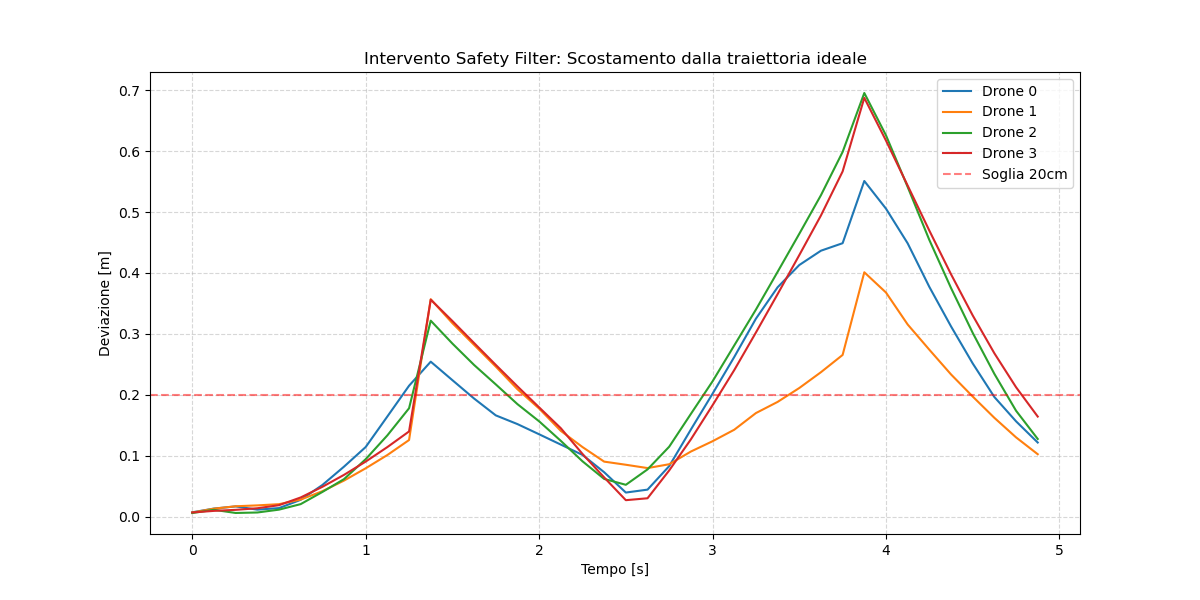
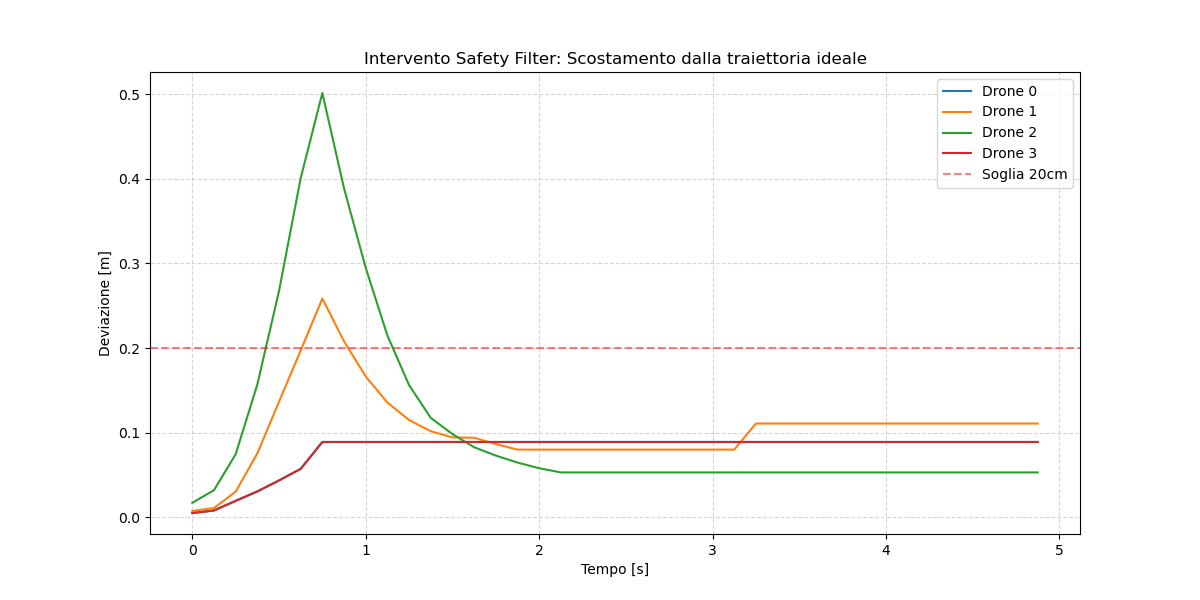
feat: new prompt for added primitives

diff --git a/swarm_gpt/core/choreographer.py b/swarm_gpt/core/choreographer.py
@@ -61,7 +61,7 @@ class Choreographer:
         self.starting_pos = {}
         self.num_drones = 0
         self.messages = []
-        self._custom_primitives: list[dict] = []
+        self._generated_yaml = Path(__file__).resolve().parents[1] / "data/prompt_generated_primitives.yaml"
         # self.agent2 = Agent2(
         #     call_llm_fn=self._call_openai,
         #     prompts_path=Path(__file__).resolve().parents[1] / "data/prompt_agent2.yaml"
@@ -142,8 +142,9 @@ class Choreographer:
         msgs = []
         user_prompt = self._format_initial_user_prompt(user_command)
         msgs.append({"role": "system", "content": self.prompts["system_initial"]})
-        if self._custom_primitives:
-            msgs.append({"role": "system", "content": self._build_generated_primitives_system_msg()})
+        generated = self._load_generated_primitives_content()
+        if generated:
+            msgs.append({"role": "system", "content": generated})
         msgs.append({"role": "user", "content": user_prompt})
         msgs.append({"role": "system", "content": self.prompts["example"]})
         msgs.append({"role": "system", "content": self.prompts["output_format"]})
@@ -173,44 +174,14 @@ class Choreographer:
         self.messages.append({"role": "assistant", "content": response})
         return response
 
-    def add_generated_primitive(
-        self, name: str, description: str, definition: str, body: str, n_args: int
-    ) -> None:
-        """Register a newly generated primitive so the Choreographer knows to use it."""
-        self._custom_primitives.append({
-            "name": name,
-            "description": description,
-            "definition": definition,
-            "body": body,
-            "n_args": n_args,
-        })
-
-    def _choreographer_sig(self, p: dict) -> str:
-        """Return the choreographer-level call signature for a generated primitive."""
-        match = re.search(r"^\s*([\w]+(?:\s*,\s*[\w]+)*)\s*=\s*params", p["body"], re.MULTILINE)
-        if match:
-            names = [n.strip() for n in match.group(1).split(",")]
-            args = names[: p["n_args"]]
-        else:
-            args = [f"p{i + 1}" for i in range(p["n_args"])]
-        return f"{p['name']}({', '.join(args)})"
-
-    def _build_generated_primitives_system_msg(self) -> str:
-        lines = [
-            "## GENERATED PRIMITIVES — TREAT AS BUILT-IN",
-            "",
-            "The following primitives were generated in this session.",
-            "They are fully valid. You MUST use them when the command matches,",
-            "exactly like any primitive in ## AVAILABLE PRIMITIVES.",
-            "Do NOT compute manual waypoints when a generated primitive applies.",
-            "",
-        ]
-        for p in self._custom_primitives:
-            sig = self._choreographer_sig(p)
-            lines.append(f"- {sig}")
-            lines.append(f"  {p['description']}")
-            lines.append("")
-        return "\n".join(lines)
+    def _load_generated_primitives_content(self) -> str:
+        """Return the pre-formatted LLM content from prompt_generated_primitives.yaml, or ''."""
+        try:
+            with open(self._generated_yaml, "r") as f:
+                data = yaml.safe_load(f) or {}
+        except FileNotFoundError:
+            return ""
+        return (data.get("content") or "").strip()
 
     def reset_history(self):
         """Reset the LLM history to ensure a clean slate."""
@@ -343,7 +314,8 @@ class Choreographer:
 
         # CASO 2: Tutto Primitives (Funzioni)
         elif none_raw:
-            logger.info("Executing Case 2: Pure Motion Primitives")
+            logger.info("Executing Case 2: Pure Motion Primitives: ")
+            print(choreo_steps)
             waypoints = self._choreo2waypoints(choreo_steps, timestamps)
 
         # CASO 3: Ibrido (Il "Mix")

diff --git a/swarm_gpt/core/agent_b/primitive_writer.py b/swarm_gpt/core/agent_b/primitive_writer.py
@@ -1,9 +1,86 @@
 import json
+import re
 from pathlib import Path
+
+import yaml
 
 from swarm_gpt.core._llm_client import client
 from swarm_gpt.core.agent_b.function_node import FunctionNode
 from swarm_gpt.core.agent_b.prompt.generate_utterances_prompt import UTTERANCES_PROMPT
+
+_GENERATED_YAML_PATH = Path(__file__).resolve().parents[2] / "data/prompt_generated_primitives.yaml"
+
+
+class _LiteralStr(str):
+    pass
+
+
+def _literal_representer(dumper, data):
+    return dumper.represent_scalar("tag:yaml.org,2002:str", data, style="|")
+
+
+class _LiteralDumper(yaml.Dumper):
+    pass
+
+
+_LiteralDumper.add_representer(_LiteralStr, _literal_representer)
+
+def write_descriptions_to_yaml(
+    nodes: list[FunctionNode], yaml_path: Path = _GENERATED_YAML_PATH
+) -> None:
+    """Append newly generated primitive descriptions to prompt_generated_primitives.yaml.
+
+    Reads the current `content`, appends one formatted block per node
+    (in prompts_no_music.yaml style), then writes the file back.
+    """
+    with open(yaml_path, "r") as f:
+        data = yaml.safe_load(f) or {}
+
+    content: str = data.get("content") or ""
+
+    for node in nodes:
+        if f"  {node.name}(" in content:
+            continue  # already present, skip to avoid conflicting duplicates
+        content = content.rstrip("\n") + "\n\n" + _format_entry(node)
+
+    data["content"] = _LiteralStr(content)
+    with open(yaml_path, "w") as f:
+        yaml.dump(data, f, Dumper=_LiteralDumper, allow_unicode=True, sort_keys=False)
+
+
+def _format_entry(node: FunctionNode) -> str:
+    """Format one primitive in prompts_no_music.yaml style."""
+    defn = node.definition or ""
+    param_names = _extract_param_names(defn, node.n_args)
+    sig = f"{node.name}({', '.join(param_names)})"
+
+    lines = [f"  {sig}"]
+    lines.append(f"    - {node.description}")
+    for pname, pdesc in _extract_param_descs(defn, set(param_names)):
+        lines.append(f"    - {{{pname}}}: {pdesc}")
+    return "\n".join(lines)
+
+
+def _extract_param_names(defn: str, n_args: int) -> list[str]:
+    """Extract param names from 'params: tuple[...] — (name1, name2, ...)' in docstring."""
+    m = re.search(r"params:\s*tuple\[.*?\]\s*[—\-]+\s*\(([\w,\s]+)\)", defn)
+    if m:
+        return [n.strip() for n in m.group(1).split(",")][:n_args]
+    return [f"p{i + 1}" for i in range(n_args)]
+
+
+def _extract_param_descs(defn: str, param_names: set) -> list[tuple[str, str]]:
+    """Extract per-param descriptions from the docstring params section."""
+    m = re.search(r"params:\s*tuple.*?\n(.*?)(?=\s*swarm_pos:)", defn, re.DOTALL)
+    if not m:
+        return []
+    results = []
+    for line in m.group(1).splitlines():
+        pm = re.match(r"\s+(\w+)\s*:\s*\S+\s*[—\-]+\s*(.+)", line)
+        if pm and pm.group(1) in param_names:
+            results.append((pm.group(1), pm.group(2).strip()))
+    return results
+
 
 # insert in dict and append in motion_primitives.py
 def write_to_file(nodes: list[FunctionNode], file_path: Path) -> None:

diff --git a/swarm_gpt/core/backend.py b/swarm_gpt/core/backend.py
@@ -22,7 +22,7 @@ import swarm_gpt.core.motion_primitives as _mp_module
 
 from swarm_gpt.core import Choreographer, DroneController
 from swarm_gpt.core.agent_b.pipeline import Pipeline
-from swarm_gpt.core.agent_b.primitive_writer import register_with_router, write_to_file
+from swarm_gpt.core.agent_b.primitive_writer import register_with_router, write_descriptions_to_yaml, write_to_file
 from swarm_gpt.core.sim import simulate_axswarm
 from swarm_gpt.exception import LLMException
 
@@ -335,15 +335,9 @@ class AppBackend:
             for node in nodes:
                 exec(node.body, _mp_module.__dict__)  # noqa: S102
                 _mp_module.motion_primitives[node.name] = {"n_args": node.n_args}
-                self.choreographer.add_generated_primitive(
-                    name=node.name,
-                    description=node.description,
-                    definition=node.definition,
-                    body=node.body,
-                    n_args=node.n_args,
-                )
 
             write_to_file(nodes, _PRIMITIVES_PATH)
+            write_descriptions_to_yaml(nodes)
             register_with_router(nodes, self.choreographer.router)
 
             # run existing system now that the new primitives are available
